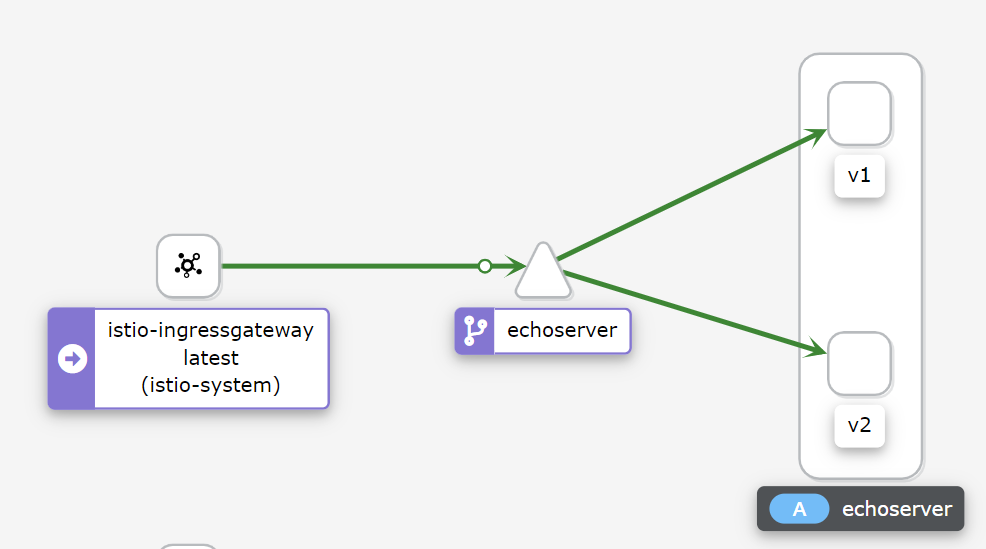
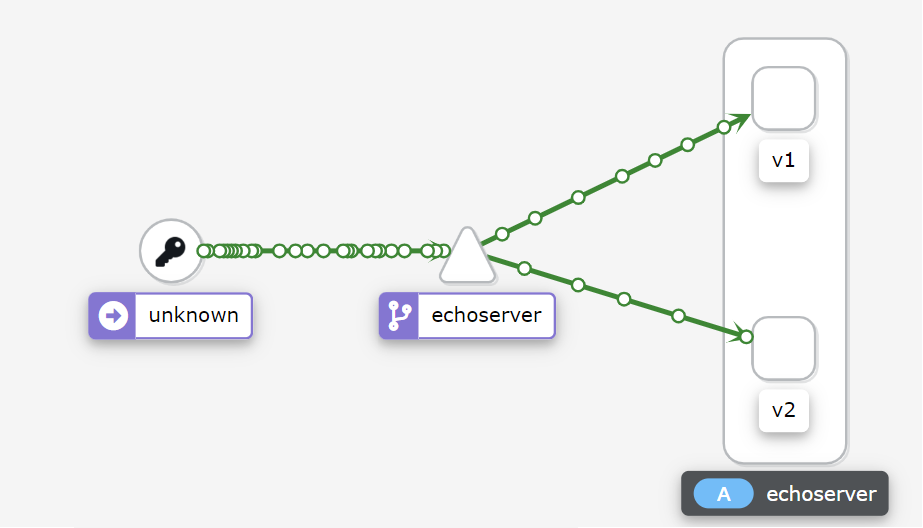
Выпролнение домашнего задания https://github.com/izhigalko/otus-homework-istio
-- Добавил картинку, изменил редми

Changed region(s): [[0.0303, 0.0606, 1.0, 1.0], [0.182, 0.9697, 0.2124, 1.0]]

diff --git a/README.md b/README.md
@@ -8,5 +8,8 @@
 - приложение из урока (echoserver) в 2-х версиях
 - было сделано разделение трафика на 50% между версиями
 
-Прикладываю снимок экрана с картой сервисов в Kiali с вызовом двух версий сервиса:
+Прикладываю снимок экрана с картой сервисов в Kiali с вызовом (из сервиса) двух версий сервиса:
 ![Карты сервисов с балансировкой трафика между версиями](kiali-map.png)
+
+Прикладываю снимок экрана с картой сервисов в Kiali с вызовом (из ingressgateway) двух версий сервиса:
+![Карты сервисов с балансировкой трафика между версиями](kiali-map-proxy-execute.png)
